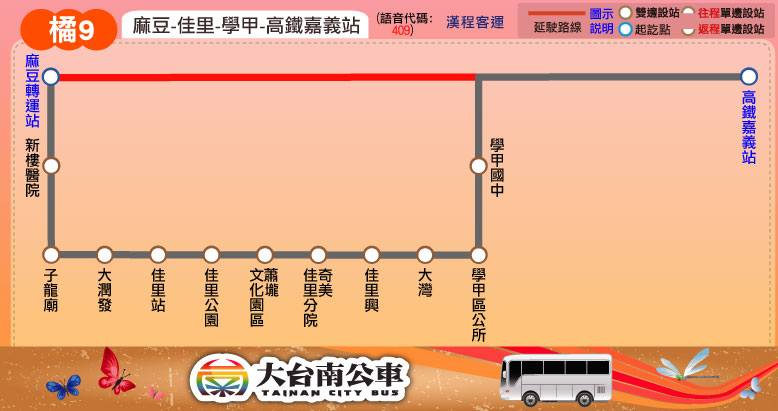
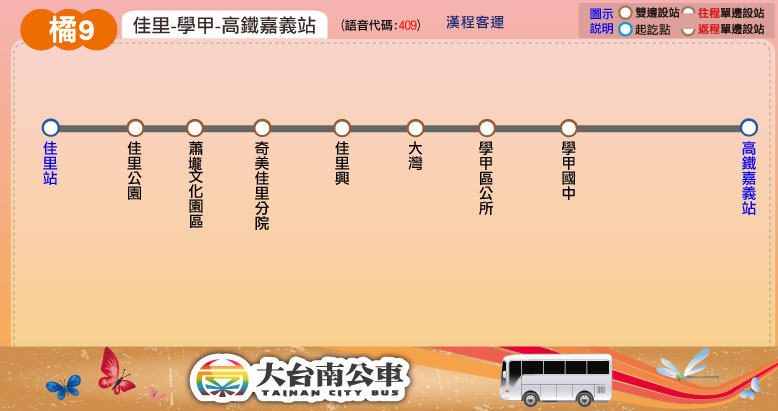
新增路線：橘9-1；更新時刻表及路線圖：橘9

Changed region(s): [[0.0, 0.0, 1.0, 1.0], [0.9871, 0.0876, 1.0, 0.146]]

diff --git a/index.html b/index.html
@@ -17,7 +17,7 @@ html, body {
 }
 </style>
 <script type="text/javascript">
-route_arr = ["0左/0右","1","2","3","5","6","7","9","10","11","14","15","18","19","20","21","33 (關子嶺故宮南院線)","61 (西濱快線)","70 (中華環線)","77","77-1","77-2","88 (府城巡迴線)","99 (安平台江線)","166","綠幹線 (green)","綠1 (g1)","綠2 (g2)","綠3 (g3)","綠4 (g4)","綠5 (g5)","綠6 (g6)","綠7 (g7)","綠10 (g10)","綠11 (g11)","綠12 (g12)","綠13 (g13)","綠14 (g14)","綠15 (g15)","綠16 (g16)","綠17 (g17)","綠20 (g20)","綠20-1 (g20-1)","綠21 (g21)","綠22 (g22)","綠23 (g23)","綠24 (g24)","綠25 (g25)","綠26 (g26)","綠27 (g27)","藍幹線 (blue)","藍1 (b1)","藍2 (b2)","藍3 (b3)","藍10 (b10)","藍11 (b11)","藍12 (b12)","藍13 (b13)","藍20 (b20)","藍21 (b21)","藍22 (b22)","藍23 (b23)","藍24 (b24)","藍25 (b25)","紅幹線 (red)","紅1 (r1)","紅2 (r2)","紅3 (r3)","紅3-1 (r3-1)","紅4 (r4)","紅10 (r10)","紅11 (r11)","紅12 (r12)","紅13 (r13)","紅14 (r14)","橘幹線 (orange)","橘1 (o1)","橘2 (o2)","橘3 (o3)","橘4 (o4)","橘4-1 (o4-1)","橘5 (o5)","橘9 (o9)","橘10 (o10)","橘10-1 (o10-1)","橘11 (o11)","橘11-1 (o11-1)","橘12 (o12)","橘20 (o20)","棕幹線 (brown)","棕1 (br1)","棕2 (br2)","棕3 (br3)","棕3-1 (br3-1)","棕10 (br10)","棕11 (br11)","黃幹線 (yellow)","黃1 (y1)","黃2 (y2)","黃3 (y3)","黃4 (y4)","黃5 (y5)","黃6 (y6)","黃6-1 (y6-1)","黃7 (y7)","黃9 (y9)","黃10 (y10)","黃10-1 (y10-1)","黃11 (y11)","黃11-1 (y11-1)","黃11-2 (y11-2)","黃12 (y12)","黃12-1 (y12-1)","黃12-2 (y12-2)","黃13 (y13)","黃14 (y14)","黃14-1 (y14-1)","黃15 (y15)","黃16 (y16)","黃16-1 (y16-1)","黃20 (y20)","高鐵快捷H31(市府線)","高鐵快捷H62(奇美線)","239","8035","8041C","8042 (沙旗美月世界快線)","8046A","8046B (高南雙城快線)","8050","7207","7208","7210","7214","7229","7407","7408","7410","南科紅線(北環東線)","南科橘線(北環西線)","南科藍線(南環線)","南科綠線(高鐵線)","南科善化線","南科假日線","雙層巴士西環線"];
+route_arr = ["0左/0右","1","2","3","5","6","7","9","10","11","14","15","18","19","20","21","33 (關子嶺故宮南院線)","61 (西濱快線)","70 (中華環線)","77","77-1","77-2","88 (府城巡迴線)","99 (安平台江線)","166","綠幹線 (green)","綠1 (g1)","綠2 (g2)","綠3 (g3)","綠4 (g4)","綠5 (g5)","綠6 (g6)","綠7 (g7)","綠10 (g10)","綠11 (g11)","綠12 (g12)","綠13 (g13)","綠14 (g14)","綠15 (g15)","綠16 (g16)","綠17 (g17)","綠20 (g20)","綠20-1 (g20-1)","綠21 (g21)","綠22 (g22)","綠23 (g23)","綠24 (g24)","綠25 (g25)","綠26 (g26)","綠27 (g27)","藍幹線 (blue)","藍1 (b1)","藍2 (b2)","藍3 (b3)","藍10 (b10)","藍11 (b11)","藍12 (b12)","藍13 (b13)","藍20 (b20)","藍21 (b21)","藍22 (b22)","藍23 (b23)","藍24 (b24)","藍25 (b25)","紅幹線 (red)","紅1 (r1)","紅2 (r2)","紅3 (r3)","紅3-1 (r3-1)","紅4 (r4)","紅10 (r10)","紅11 (r11)","紅12 (r12)","紅13 (r13)","紅14 (r14)","橘幹線 (orange)","橘1 (o1)","橘2 (o2)","橘3 (o3)","橘4 (o4)","橘4-1 (o4-1)","橘5 (o5)","橘9 (o9)","橘9-1 (o9-1)","橘10 (o10)","橘10-1 (o10-1)","橘11 (o11)","橘11-1 (o11-1)","橘12 (o12)","橘20 (o20)","棕幹線 (brown)","棕1 (br1)","棕2 (br2)","棕3 (br3)","棕3-1 (br3-1)","棕10 (br10)","棕11 (br11)","黃幹線 (yellow)","黃1 (y1)","黃2 (y2)","黃3 (y3)","黃4 (y4)","黃5 (y5)","黃6 (y6)","黃6-1 (y6-1)","黃7 (y7)","黃9 (y9)","黃10 (y10)","黃10-1 (y10-1)","黃11 (y11)","黃11-1 (y11-1)","黃11-2 (y11-2)","黃12 (y12)","黃12-1 (y12-1)","黃12-2 (y12-2)","黃13 (y13)","黃14 (y14)","黃14-1 (y14-1)","黃15 (y15)","黃16 (y16)","黃16-1 (y16-1)","黃20 (y20)","高鐵快捷H31(市府線)","高鐵快捷H62(奇美線)","239","8035","8041C","8042 (沙旗美月世界快線)","8046A","8046B (高南雙城快線)","8050","7207","7208","7210","7214","7229","7407","7408","7410","南科紅線(北環東線)","南科橘線(北環西線)","南科藍線(南環線)","南科綠線(高鐵線)","南科善化線","南科假日線","雙層巴士西環線"];
 function search_route(route_str){
 	isFinished = false;
 	route_str = route_str.split(' ')[0];
@@ -89,7 +89,7 @@ $(document).ready(function($) {
 <body>
 <div id="info">
 	<p>
-		<a href="https://github.com/s88239/tainanbus/commits/gh-pages">網站更新紀錄</a> | 
+		<a href="https://github.com/s88239/tainanbus/commits">網站更新紀錄</a> | 
 		<a href="intro.html" rel="nofollow">關於本站</a>
 	</p>
 </div>

diff --git a/route/fare_and_time/orange_9.js b/route/fare_and_time/orange_9.js
@@ -1,55 +1,33 @@
-orange_9_interval_name = ["麻豆轉運站","子龍廟","佳里站","奇美佳<br />里分院","大灣","學甲國中","高鐵嘉義站"];
+orange_9_interval_name = ["佳里站","佳里公園","蕭壠文<br />化園區","奇美佳<br />里分院","佳里興","大灣","學甲<br />區公所","學甲國中","高鐵<br />嘉義站"];
 orange_9_interval_stop = [
-["麻豆轉運站","新樓醫院"], // 麻豆轉運站
-["子龍廟"], // 子龍廟
-["大潤發","佳里站","佳里公園"], // 佳里站
-["蕭壠文化園區","奇美佳里分院","佳里興"], // 奇美佳里分院
+["佳里站"], // 佳里站
+["佳里公園"], // 佳里公園
+["蕭壠文化園區"], // 蕭壠文化園區
+["奇美佳里分院"], // 奇美佳里分院
+["佳里興"], // 佳里興
 ["大灣"], // 大灣
-["學甲區公所","學甲國中"], // 學甲國中
+["學甲區公所"], // 學甲區公所
+["學甲國中"], // 學甲國中
 ["高鐵嘉義站"] // 高鐵嘉義站
 ];
 orange_9_fare = [
 [26],
 [26,26],
 [26,26,26],
-[33,26,26,26],
-[43,31,26,26,26],
-[51,39,27,26,26,26],
-[178,170,156,147,141,130,26]
+[26,26,26,26],
+[26,26,26,26,26],
+[26,26,26,26,26,26],
+[27,27,26,26,26,26,26],
+[27,27,26,26,26,26,26,26],
+[150,150,147,147,147,141,130,130,26]
 ];
 // format = [time at the start stop] or
 // [time, other] or
 // [time, start_stop, end_stop, other]
-orange_9_main_stop_name = ["麻豆轉運站","佳里站","學甲區公所","高鐵嘉義站"];
-orange_9_main_stop_time_consume = [0, 10, 25, 70];
-orange_9_important_stop = [0, 1, 3]; // 麻豆轉運站, 佳里站, 高鐵嘉義站
-var Madou_Bus_Station = 0;
-var Jiali_Bus_Station = 1;
-var Syuejia_District_Office = 2;
-var HSR_Chiayi_Station = 3;
-orange_9_time_go = [["06:00"],["06:40"],
-["08:40",[Jiali_Bus_Station,Syuejia_District_Office,[HSR_Chiayi_Station,-20]]],
-["09:20"],["10:00"],["12:40"],["14:30"],["15:40"],
-["16:40",[Jiali_Bus_Station,Syuejia_District_Office,[HSR_Chiayi_Station,-20]]],
-["17:40"],["20:40"]
+orange_9_main_stop_name = ["佳里站","奇美<br />佳里分院","學甲區公所","高鐵嘉義站"];
+orange_9_main_stop_time_consume = [0, 7, 15, 60];
+orange_9_important_stop = [0, 3]; // 佳里站, 高鐵嘉義站
+orange_9_time_go = [["06:15"],["07:45"],["09:45"],["12:45"],["13:45"],["15:45"],["18:45"]
 ];
-orange_9_time_return = [["07:20"],["08:30"],
-["10:20",[Jiali_Bus_Station,Syuejia_District_Office,[Madou_Bus_Station,-20]]],
-["11:10"],["12:20"],["14:20"],["16:20"],["17:20"],
-["18:20",[Jiali_Bus_Station,Syuejia_District_Office,[Madou_Bus_Station,-20]]],
-["19:20"],["22:20"]
-];
-
-// holiday schedule
-orange_9_holiday_time_go = [["06:40"],
-["08:40",[Jiali_Bus_Station,Syuejia_District_Office,[HSR_Chiayi_Station,-20]]],
-["09:20"],["10:00"],["11:40"],["12:40"],["13:40"],["14:30"],["15:10"],
-["15:50",[Jiali_Bus_Station,Syuejia_District_Office,[HSR_Chiayi_Station,-20]]],
-["16:50"],["17:40"],["18:40"],["20:40"]
-];
-orange_9_holiday_time_return = [["08:30"],
-["10:20",[Jiali_Bus_Station,Syuejia_District_Office,[Madou_Bus_Station,-20]]],
-["11:10"],["11:30"],["13:25"],["14:20"],["15:25"],["16:20"],["17:00"],
-["17:20",[Jiali_Bus_Station,Syuejia_District_Office,[Madou_Bus_Station,-20]]],
-["18:30"],["19:20"],["20:20"],["22:20"]
+orange_9_time_return = [["07:30"],["10:05"],["12:05"],["14:30"],["16:05"],["18:30"],["20:30"]
 ];

diff --git a/tools/transfer_information.js b/tools/transfer_information.js
@@ -70,6 +70,7 @@ link_orange_4 = '<a href="../orange/orange_4.html" target="_blank">橘4</a>';
 link_orange_4_1 = '<a href="../orange/orange_4-1.html" target="_blank">橘4-1</a>';
 link_orange_5 = '<a href="../orange/orange_5.html" target="_blank">橘5</a>';
 link_orange_9 = '<a href="../orange/orange_9.html" target="_blank">橘9</a>';
+link_orange_9_1 = '<a href="../orange/orange_9-1.html" target="_blank">橘9-1</a>';
 link_orange_10 = '<a href="../orange/orange_10.html" target="_blank">橘10</a>';
 link_orange_10_1 = '<a href="../orange/orange_10-1.html" target="_blank">橘10-1</a>';
 link_orange_11 = '<a href="../orange/orange_11.html" target="_blank">橘11</a>';
@@ -257,7 +258,7 @@ transfer_jiali = '<tr><th rowspan="3">佳里站</th>\
 	<p>' + link_blue_11 + '、' + link_blue_12 + '、' + link_blue_13 + '、' + link_blue_20 + '、' + '</p>'
 	+ link_blue_21 + '、' + link_blue_22 + '、' + link_blue_25 + '</td></tr>\
 <tr><td style="text-align: center"><img src="' + LOGO_DIR_PATH + 'orange_transfer_logo.png"></td>\
-	<td id="orange">' + link_orange + '、' + link_orange_9 + '</td></tr>\
+	<td id="orange">' + link_orange + '、' + link_orange_9 + '、' + link_orange_9_1 + '</td></tr>\
 <tr><td style="text-align: center"><img src="' + LOGO_DIR_PATH + 'brown_transfer_logo.png"></td>\
 	<td id="brown">' + link_brown + '</td></tr>';
 
@@ -401,7 +402,7 @@ transfer_hsr_chiayi_station = '<tr><th rowspan="5">高鐵嘉義站</th>\
 <tr><td style="text-align: center"><img src="../route/transfer/yellow_transfer_logo.png"></td>\
 	<td id="yellow">' + link_yellow_9 + '、' + link_yellow_16_1 + '</td></tr>\
 <tr><td style="text-align: center"><img src="../route/transfer/orange_transfer_logo.png"></td>\
-	<td id="orange">' + link_orange_9 + '</td></tr>\
+	<td id="orange">' + link_orange_9 + '、' + link_orange_9_1 + '</td></tr>\
 <tr><td style="text-align: center"><img src="' + LOGO_DIR_PATH + 'hsr_shuttle_logo.png"></td>\
 	<td id="hsr_shuttle">' + link_hsr_shuttle_166 + '</td></tr>\
 <tr><td style="text-align: center"><img src="' + LOGO_DIR_PATH + 'taiwantrip_logo.png"></td>\
@@ -409,7 +410,7 @@ transfer_hsr_chiayi_station = '<tr><th rowspan="5">高鐵嘉義站</th>\
 
 transfer_madou = '<tr><th rowspan="2">麻豆轉運站</th>\
 <td style="text-align: center"><img src="' + LOGO_DIR_PATH + 'orange_transfer_logo.png"></td>\
-	<td id="orange"><p>' + link_orange + '、' + link_orange_9 + '、' + link_orange_10 + '、' + link_orange_10_1 + '、</p>'
+	<td id="orange"><p>' + link_orange + '、' + link_orange_9_1 + '、' + link_orange_10 + '、' + link_orange_10_1 + '、</p>'
 	+ link_orange_11 + '、' + link_orange_11_1 + '、' + link_orange_12 + '</td></tr>\
 <tr><td style="text-align: center"><img src="' + LOGO_DIR_PATH + 'yellow_transfer_logo.png"></td>\
 	<td id="yellow">' + link_yellow + '、' + link_yellow_20 + '</td></tr>';

diff --git a/orange/index.html b/orange/index.html
@@ -11,19 +11,20 @@
 <a href="../index.html"><img id="logo" src="../img/orange_logo.png"/></a>
 <table id="bg_table">
 	<script type="text/javascript">
-		document.write('<tr><td><a href="orange.html" class="orangeButton">橘幹線</a></td><td>'+ orange_route +'</td>\
-			<td><a href="orange_9.html" class="orangeButton">橘9</a></td><td>'+ orange_9_route +'</td></tr>\
+		document.write('<tr><td colspan="4" align="center"><a href="orange.html" class="orangeButton"><font size="+2">橘幹線</font></a><font size="+2">　'+ orange_route +'</font></td></tr>\
 		<tr><td><a href="orange_1.html" class="orangeButton">橘1</a></td><td>'+ orange_1_route +'</td>\
-			<td><a href="orange_10.html" class="orangeButton">橘10</a></td><td>'+ orange_10_route +'</td></tr>\
+			<td><a href="orange_9-1.html" class="orangeButton">橘9-1</a></td><td>'+ orange_9_1_route +'</td></tr>\
 		<tr><td><a href="orange_2.html" class="orangeButton">橘2</a></td><td>'+ orange_2_route +'</td>\
-			<td><a href="orange_10-1.html" class="orangeButton">橘10-1</a></td><td>'+ orange_10_1_route +'</td></tr>\
+			<td><a href="orange_10.html" class="orangeButton">橘10</a></td><td>'+ orange_10_route +'</td></tr>\
 		<tr><td><a href="orange_3.html" class="orangeButton">橘3</a></td><td>'+ orange_3_route +'</td>\
-			<td><a href="orange_11.html" class="orangeButton">橘11</a></td><td>'+ orange_11_route +'</td></tr>\
+			<td><a href="orange_10-1.html" class="orangeButton">橘10-1</a></td><td>'+ orange_10_1_route +'</td></tr>\
 		<tr><td><a href="orange_4.html" class="orangeButton">橘4</a></td><td>'+ orange_4_route +'</td>\
-			<td><a href="orange_11-1.html" class="orangeButton">橘11-1</a></td><td>'+ orange_11_1_route +'</td></tr>\
+			<td><a href="orange_11.html" class="orangeButton">橘11</a></td><td>'+ orange_11_route +'</td></tr>\
 		<tr><td><a href="orange_4-1.html" class="orangeButton">橘4-1</a></td><td>'+ orange_4_1_route +'</td>\
-			<td><a href="orange_12.html" class="orangeButton">橘12</a></td><td>'+ orange_12_route +'</td></tr>\
+			<td><a href="orange_11-1.html" class="orangeButton">橘11-1</a></td><td>'+ orange_11_1_route +'</td></tr>\
 		<tr><td><a href="orange_5.html" class="orangeButton">橘5</a></td><td>'+ orange_5_route +'</td>\
+			<td><a href="orange_12.html" class="orangeButton">橘12</a></td><td>'+ orange_12_route +'</td></tr>\
+		<tr><td><a href="orange_9.html" class="orangeButton">橘9</a></td><td>'+ orange_9_route +'</td>\
 			<td><a href="orange_20.html" class="orangeButton">橘20</a></td><td>'+ orange_20_route +'</td></tr>');
 	</script>
 </table>

diff --git a/orange/orange_9-1.html b/orange/orange_9-1.html
@@ -3,11 +3,11 @@
 <head>
 <meta http-equiv="Content-Type" content="text/html; charset=utf-8" />
 <script type="text/javascript">
-	route_name = '橘9';
-	route_name_en = 'Orange 9';
-	route_file_name = 'orange_9';
+	route_name = '橘9-1';
+	route_name_en = 'Orange 9-1';
+	route_file_name = 'orange_9_1';
 	route_type = 'orange';
-	route_interval = ['佳里','學甲','高鐵嘉義站'];
+	route_interval = ['佳里','麻豆','高鐵嘉義站'];
 </script>
 <script src="../tools/web_model.js"></script> 
 <script type="text/javascript">
@@ -18,10 +18,10 @@
 <script type="text/javascript">
 	block_header();
 	block_route_map(null);
-	block_route_info(route_interval,'漢程客運','','里程計費','http://www.2384.com.tw/ebus/jsp/ajaxBus.jsp?pathId=1409&locale=zh_TW');
+	block_route_info(route_interval,'漢程客運','','里程計費','http://www.2384.com.tw/ebus/jsp/ajaxBus.jsp?pathId=1816&locale=zh_TW');
 	block_fare(0, null);
 	block_time_schedule('佳里','高鐵嘉義站','');
-	block_transfer(transfer_jiali + transfer_hsr_chiayi_station);
+	block_transfer(transfer_jiali + transfer_madou + transfer_hsr_chiayi_station);
 	block_copyright();
 </script>
 </body>

diff --git a/route/fare_and_time/orange_9_1.js b/route/fare_and_time/orange_9_1.js
@@ -1,0 +1,27 @@
+orange_9_1_interval_name = ["佳里站","大潤發","子龍廟","新樓醫院","麻豆轉運站","高鐵嘉義站"];
+orange_9_1_interval_stop = [
+["佳里站"], // 佳里站
+["大潤發"], // 大潤發
+["子龍廟"], // 子龍廟
+["新樓醫院"], // 新樓醫院
+["麻豆轉運站"], // 麻豆轉運站
+["高鐵嘉義站"] // 高鐵嘉義站
+];
+orange_9_1_fare = [
+[26],
+[26,26],
+[26,26,26],
+[26,26,26,26],
+[26,26,26,26,26],
+[150,150,139,130,130,26]
+];
+// format = [time at the start stop] or
+// [time, other] or
+// [time, start_stop, end_stop, other]
+orange_9_1_main_stop_name = ["佳里站","新樓醫院","麻豆轉運站","高鐵嘉義站"];
+orange_9_1_main_stop_time_consume = [0, 7, 10, 60];
+orange_9_1_important_stop = [0, 2, 3]; // 佳里站, 麻豆轉運站, 高鐵嘉義站
+orange_9_1_time_go = [["06:45"],["08:45"],["11:15"],["13:15"],["14:45"],["17:15"],["20:45"]
+];
+orange_9_1_time_return = [["08:30"],["11:05"],["13:05"],["15:30"],["17:30"],["19:30"],["22:30"]
+];

diff --git a/overview.html b/overview.html
@@ -132,6 +132,7 @@ function get_transfer_info(bus_stop){
 		+ get_button_string('brown', 'brown', '棕幹線')
 		+ get_button_string('orange', 'orange', '橘幹線')
 		+ get_button_string('orange', 'orange_9', '橘9')
+		+ get_button_string('orange', 'orange_9-1', '橘9-1')
 		+ get_button_string('blue', 'blue_1', '藍1')
 		+ get_button_string('blue', 'blue_2', '藍2')
 		+ get_button_string('blue', 'blue_3', '藍3')
@@ -183,7 +184,7 @@ function get_transfer_info(bus_stop){
 	case '麻豆轉運站':
 		div_string += get_button_string('orange', 'orange', '橘幹線')
 		+ get_button_string('yellow', 'yellow', '黃幹線')
-		+ get_button_string('orange', 'orange_9', '橘9')
+		+ get_button_string('orange', 'orange_9-1', '橘9-1')
 		+ get_button_string('orange', 'orange_10', '橘10')
 		+ get_button_string('orange', 'orange_10-1', '橘10-1')
 		+ get_button_string('orange', 'orange_11', '橘11')

diff --git a/hsr_shuttle/index.html b/hsr_shuttle/index.html
@@ -29,6 +29,7 @@
 		document.write('<tr><td><a href="../yellow/yellow_9.html" class="yellowButton">黃9</a></td><td>'+ yellow_9_route +'</td></tr>\
 		<tr><td><a href="../yellow/yellow_16-1.html" class="yellowButton">黃16-1</a></td><td>'+ yellow_16_1_route +'</td></tr>\
 		<tr><td><a href="../orange/orange_9.html" class="orangeButton">橘9</a></td><td>'+ orange_9_route +'</td></tr>\
+		<tr><td><a href="../orange/orange_9-1.html" class="orangeButton">橘9-1</a></td><td>'+ orange_9_1_route +'</td></tr>\
 		<tr><td><a href="166.html" class="hsr_shuttleButton">166</a></td><td>'+ hsr_shuttle_166_route +'</td></tr>\
 		<tr><td><a href="../tourist/33.html" class="touristButton">33</a></td><td>'+ tourist_33_route +'</td></tr>\
 		</tr>');

diff --git a/tools/route_infor.js b/tools/route_infor.js
@@ -66,7 +66,8 @@ orange_3_route = '善化轉運站 ─ 安定 ─ 和順 ─ 臺南轉運站';
 orange_4_route = '善化轉運站 ─ 南藝大 ─ 烏山頭水庫';
 orange_4_1_route = '善化轉運站 ─ 官田工業區';
 orange_5_route = '善化轉運站 ─ 官田 ─ 六甲';
-orange_9_route = '麻豆 ─ 佳里 ─ 學甲 ─ 高鐵嘉義站';
+orange_9_route = '佳里 ─ 學甲 ─ 高鐵嘉義站';
+orange_9_1_route = '佳里 ─ 麻豆 ─ 高鐵嘉義站';
 orange_10_route = '大地莊園 ─ 麻豆 ─ 官田 ─ 南藝大';
 orange_10_1_route = '麻豆 ─ 隆田火車站 ─ 官田工業區';
 orange_11_route = '下營 ─ 麻豆 ─ 西港 ─ 臺南轉運站';
